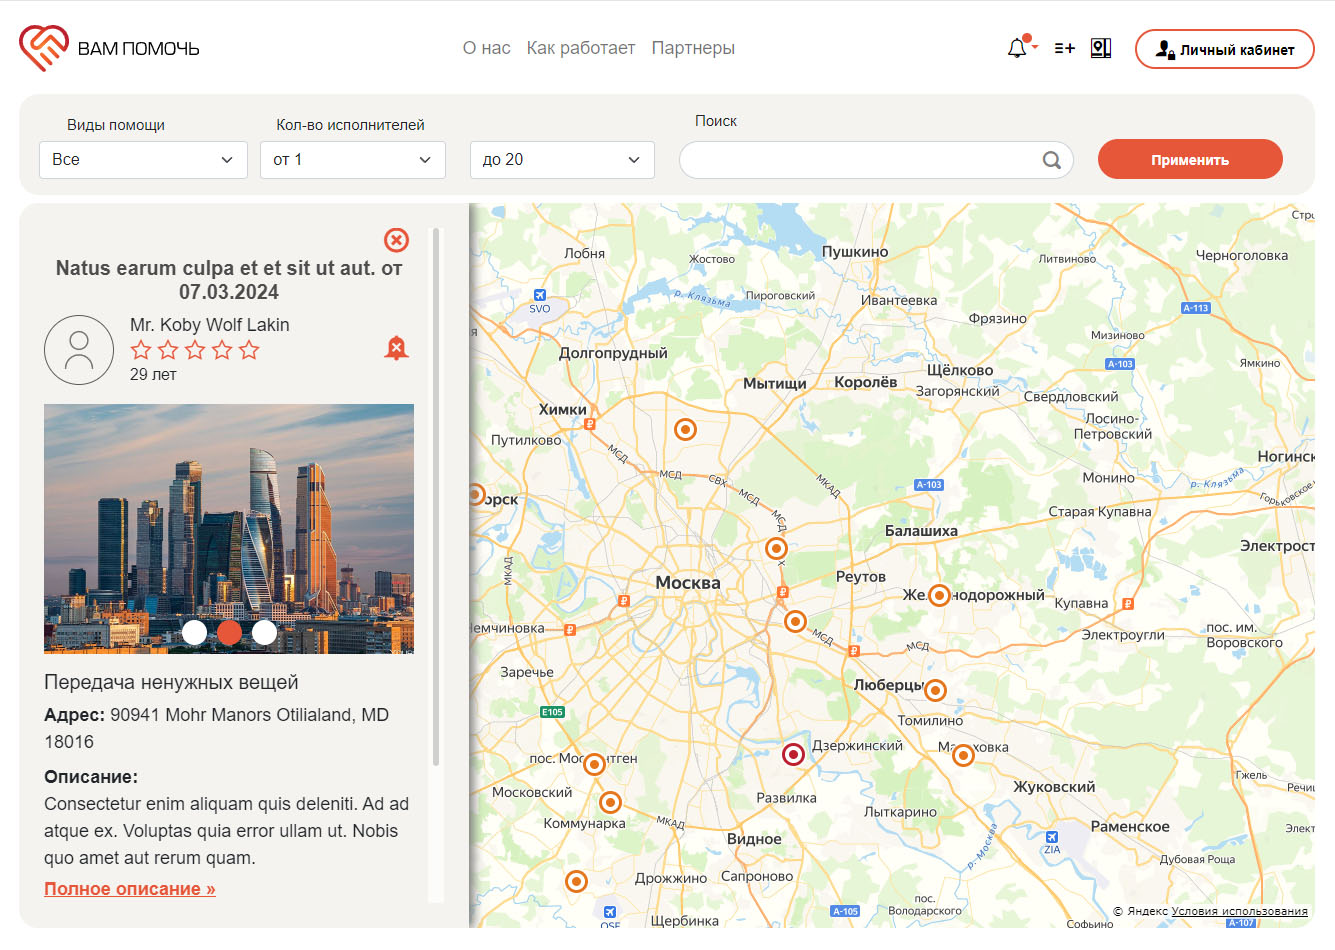
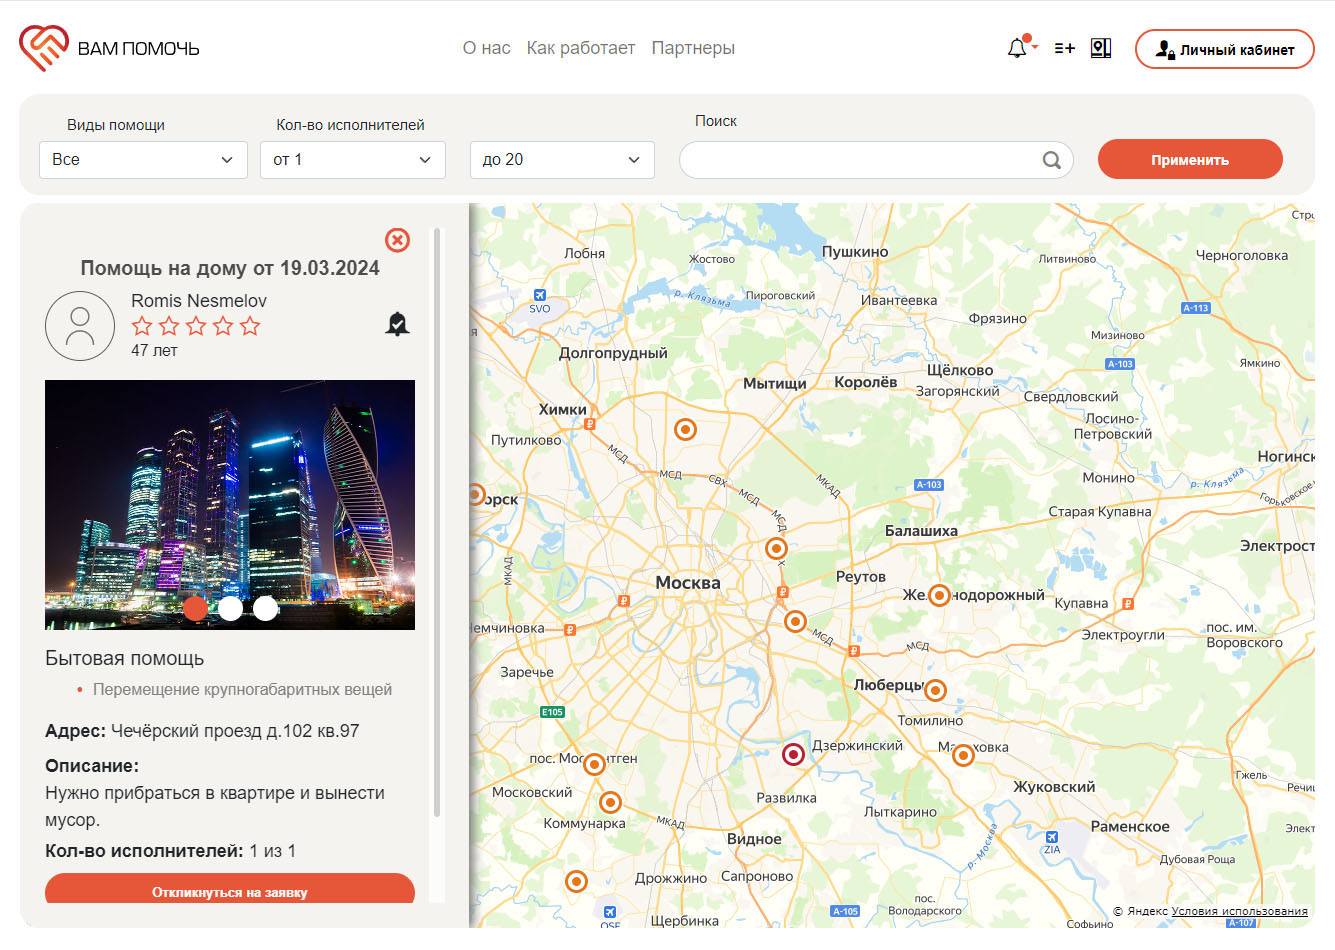
fixes

Changed region(s): [[0.0307, 0.2442, 0.3378, 0.9768]]

diff --git a/resources/js/components/IncentivesComponent.vue b/resources/js/components/IncentivesComponent.vue
@@ -11,13 +11,11 @@
                 <div class="row">
                     <div class="col-lg-6 col-sm-12 mb-2" v-for="incentive in incentives" :key="incentive.id">
                         <div class="item-in-list action text-center p-3">
-                            <div>
-                                <div class="fw-bold fs-6">Акция</div>
-                                <div class="lh-sm fs-5">{{ incentive.action.name }}</div>
-                            </div>
-                            <div class="fs-6 fw-bold">{{ getDate(incentive.action.start) + ' - ' + getDate(incentive.action.end) }}</div>
+                            <div class="lh-sm fs-5">{{ incentive.action_full.name }}</div>
+                            <div class="fs-6">Подарок от компании<br><span class="fw-bold text-uppercase">«{{ incentive.action_full.partner.name }}»</span></div>
+                            <div class="fs-6 fw-bold">Дата: {{ getDate(incentive.action_full.start) + ' - ' + getDate(incentive.action_full.end) }}</div>
                             <div class="w-100 d-flex justify-content-center">
-                                <a class="w-50 me-1" :href="incentive_url + '?id=' + incentive.action.id">
+                                <a class="w-50 me-1" :href="incentive_url + '?id=' + incentive.action_full.id">
                                     <ButtonComponent
                                         class="btn btn-primary w-100 m-auto"
                                         text="Подробнее"
@@ -111,6 +109,8 @@ export default {
             axios.get(url).then(function (response) {
                 self.incentives = response.data.data;
                 self.links = response.data.links;
+
+                console.log(self.incentives);
 
                 if (!self.incentives.length) {
                     window.emitter.emit('incentives', false);

diff --git a/resources/js/components/blocks/AvatarComponent.vue b/resources/js/components/blocks/AvatarComponent.vue
@@ -2,7 +2,7 @@
     <div
         :class="`avatar cir ${this.small ? 'small' : ''} ${this.avatar_error ? 'error' : ''}`"
         :style="`
-            background-image:url(/${this.avatar_image ? this.avatar_image : 'images/def_avatar.svg'});
+            background-image:url(/${this.avatar_image ? (this.avatar_image + '?' + getRandomString()) : 'images/def_avatar.svg'});
             ${this.avatar_props && this.avatar_props['background-position-x'] ? 'background-position-x:'+(this.avatar_props['background-position-x'] * this.avatar_coof)+'px' : ''};
             ${this.avatar_props && this.avatar_props['background-position-y'] ? 'background-position-y:'+(this.avatar_props['background-position-y'] * this.avatar_coof)+'px' : ''};
             ${this.avatar_props && this.avatar_props['background-size'] ? 'background-size:'+(this.avatar_props['background-size']) : ''};
@@ -24,5 +24,18 @@ export default {
         'allow_change_avatar': Number,
         'input_image_hover': String|NaN,
     },
+    methods: {
+        getRandomString() {
+            let result = '';
+            const characters = 'ABCDEFGHIJKLMNOPQRSTUVWXYZabcdefghijklmnopqrstuvwxyz0123456789';
+            const charactersLength = characters.length;
+            let counter = 0;
+            while (counter < 10) {
+                result += characters.charAt(Math.floor(Math.random() * charactersLength));
+                counter += 1;
+            }
+            return result;
+        }
+    }
 }
 </script>

diff --git a/database/seeders/ActionsSeeder.php b/database/seeders/ActionsSeeder.php
@@ -1,0 +1,30 @@
+<?php
+
+namespace Database\Seeders;
+
+use App\Models\Action;
+use App\Models\Partner;
+use Carbon\Carbon;
+use Illuminate\Database\Seeder;
+
+class ActionsSeeder extends Seeder
+{
+    /**
+     * Run the database seeds.
+     */
+    public function run(): void
+    {
+        $html = '<div class="col-md-4 col-sm-12 image float-start me-3"><img src="/images/placeholder.jpg"></div><p>Maiores ea consequatur omnis numquam cum in. Odio dicta expedita blanditiis magni illum ex voluptas. Quia officiis nemo aperiam numquam dolores aspernatur debitis. Quae praesentium illum veritatis totam vel. Reprehenderit atque porro sint. Omnis aut iure cum natus odit non. Aut at suscipit mollitia dolore perspiciatis autem error asperiores. Maxime aperiam sed ex quaerat. Est sed ipsam alias alias dolores. Sunt quam quaerat quaerat et officia facere. Facilis necessitatibus dolores saepe recusandae non repellat eum. Ab enim et sint at rerum rem enim. Fugit ipsum non sunt rem et. Temporibus laboriosam omnis et asperiores atque dolorum. Nesciunt perferendis aperiam fuga. Qui commodi aut odio quis temporibus. Expedita enim et quia eum quia est numquam quidem. Consectetur fugiat rerum odio reiciendis et. Eaque aspernatur voluptatibus omnis ratione deserunt. Ut fuga ut in quod. Nam at reiciendis in laboriosam maxime in. Autem iste esse iusto ut eum nihil consequatur. Ipsum officia sunt quidem non eum. Autem dignissimos et modi labore ut quo repudiandae nulla. Eos perspiciatis qui molestiae quia quasi perferendis inventore. In temporibus harum est. Voluptates sequi est minima sequi excepturi est. Non magni qui tempore facere. Rerum mollitia incidunt tempora qui aut quis. Quia adipisci autem et doloremque et placeat. Eos sed doloribus quo consequatur repellat autem. Rerum dignissimos exercitationem quidem quia saepe dicta ut. Amet qui amet officia consequatur aut. Sit debitis dignissimos laboriosam repellendus veritatis. Itaque at aspernatur aliquam ratione nobis nesciunt facilis. Voluptas officiis similique ducimus. Totam est voluptatum explicabo et. Voluptas sequi neque nihil fugiat consequatur distinctio. Eos et sit libero vel asperiores laboriosam. Adipisci reprehenderit est et et optio. Harum excepturi itaque sit. Ea quas officiis rem exercitationem. Molestiae dolor unde suscipit quas vero ut. Voluptatem iste sit nobis molestiae dignissimos nam. Accusamus quas et veniam. Perspiciatis quae quo quia nostrum. Amet facilis nemo mollitia corporis voluptate. Aut fugiat id asperiores est. Beatae cumque eum debitis id. Voluptatem illum quia error nihil id provident. Repellendus occaecati et quia ut. Enim maiores dolor aut maxime voluptatem. Sit rem sunt hic est nisi tempore provident. Quidem molestiae et a doloribus. Libero esse architecto voluptas voluptates libero. Dignissimos nostrum veniam sunt doloremque. Ut ut et et aperiam voluptatem et aut. Aut magnam doloribus nemo. Beatae nam ea nostrum omnis mollitia non distinctio. Velit vel neque consequatur commodi debitis exercitationem deleniti. Sapiente itaque aut ut aspernatur aut voluptates. Numquam quam deserunt aspernatur amet. Optio occaecati consequatur ipsa ut maxime assumenda est. Vitae voluptas consectetur dolor recusandae quas. Cumque saepe eligendi consectetur beatae nesciunt. Accusamus quo quia possimus dolore voluptatem et.</p><div class="col-md-4 col-sm-12 image float-end ms-3"><img src="/images/placeholder.jpg"></div><p>Id soluta quia voluptatem quos ut rerum est. Quaerat eligendi expedita unde eos ut atque. Dicta aperiam facere totam in qui repellat qui. Aperiam vitae cumque et labore a harum. Veritatis commodi rerum quibusdam ut consequatur. Possimus est doloremque corporis rerum minima corrupti aliquid repellat. Ipsam odio corrupti vitae debitis mollitia quod assumenda. Optio aperiam assumenda et quia nulla. Quod nostrum temporibus qui rem quia. Ad quisquam qui hic et voluptatibus. Facilis consectetur ut quia. Beatae dolores suscipit repellat dignissimos itaque cupiditate. Necessitatibus iusto soluta similique sit tempore. Expedita accusamus non laborum sed cupiditate sint hic. Aut minima quos reprehenderit eveniet consequuntur tempora. Molestiae eum et nulla omnis. Hic accusamus iure porro ullam. Quidem modi tempore nisi debitis et. Labore ea eos voluptate maxime. Provident sint aut consequuntur dolores non. Id doloremque in occaecati. Sit et in occaecati consequuntur. Possimus voluptate perferendis qui quibusdam esse. Aliquid adipisci enim sint architecto. Ut rerum laboriosam rerum et iure. Esse natus facilis voluptatibus. Recusandae veniam corporis omnis est illum. Rerum consequuntur nihil officiis deleniti quod. Sit similique dolores consequatur quis dolor explicabo velit. Et omnis eos pariatur quia iste sed cupiditate.</p>';
+        $ids = Partner::pluck('id')->toArray();
+        foreach ($ids as $id) {
+            Action::create([
+                'name' => 'Акция-кооперация',
+                'html' => $html,
+                'start' => Carbon::now(),
+                'end' => Carbon::now()->addDays(30),
+                'rating' => rand(1,2),
+                'partner_id' => $id
+            ]);
+        }
+    }
+}

diff --git a/resources/views/about_us.blade.php b/resources/views/about_us.blade.php
@@ -22,7 +22,7 @@
         <div class="col-12 col-lg-6">
             <div class="rounded-block tall">
                 <h1 class="mb-3">Обратная связь</h1>
-                <p class="small mb-0">Здесь вы можете задать любые вопросы, выразить свое мнение о проекте, или сделать предложение по его улучшению. Для этого нужно заполнить форму обратной связи и дать согласие на обработку персональных данных. бращаем ваше внимание, что все поля обязательны для заполнения.
+                <p class="small mb-0">Здесь вы можете задать любые вопросы, выразить свое мнение о проекте, или сделать предложение по его улучшению. Для этого нужно заполнить форму обратной связи и дать согласие на обработку персональных данных. Обращаем ваше внимание, что все поля обязательны для заполнения.
                 </p>
                 <feedback-component feedback_url="{{ route('feedback') }}"></feedback-component>
             </div>

diff --git a/database/seeders/PartnersSeeder.php b/database/seeders/PartnersSeeder.php
@@ -1,0 +1,37 @@
+<?php
+
+namespace Database\Seeders;
+use App\Models\Partner;
+use Illuminate\Database\Seeder;
+
+class PartnersSeeder extends Seeder
+{
+    /**
+     * Run the database seeds.
+     */
+    public function run(): void
+    {
+        $data = [
+            'Ali Express',
+            'Авто-ремонтные системы',
+            'Азбука вкуса',
+            'Bauer',
+            'Beer Trade',
+            'Деловые линии',
+            'Еврологистика',
+            'Фирма К и К',
+            'Лидер',
+            'MARR Russia',
+            'Департамент физической культуры и спорта города Москвы',
+            'Очаково. Натуральные напитки',
+            'Rubezh Global'
+        ];
+
+        foreach ($data as $k => $partner) {
+            Partner::create([
+                'logo' => 'images/partners/logo'.($k + 1).'.svg',
+                'name' => $partner
+            ]);
+        }
+    }
+}

diff --git a/database/seeders/OrdersSeeder.php b/database/seeders/OrdersSeeder.php
@@ -24,13 +24,13 @@ class OrdersSeeder extends Seeder
             'order_type_id' => 1,
             'city_id' => 1,
             'subtype_id' => rand(1,4),
-            'name' => 'Тестовая заяка',
-            'need_performers' => 10,
-            'address' => 'Криворожская улица, 17, подъезд 2, этаж 3, кв. 32',
-            'latitude' => 55.667594,
-            'longitude' => 37.612245,
-            'description_short' => 'Чета с кем-то где-то что-то и когда-то надо срочно сделать, а то край!',
-            'status' => 1
+            'name' => 'Помощь на дому',
+            'need_performers' => 1,
+            'address' => 'Чечёрский проезд д.102 кв.97',
+            'latitude' => 55.529496,
+            'longitude' => 37.517940,
+            'description_short' => 'Нужно прибраться в квартире и вынести мусор.',
+            'status' => 2
         ]);
 
         OrderUser::create([

diff --git a/app/Models/Action.php b/app/Models/Action.php
@@ -1,22 +1,19 @@
 <?php
 
 namespace App\Models;
-
-use Illuminate\Database\Eloquent\Factories\HasFactory;
 use Illuminate\Database\Eloquent\Model;
+use Illuminate\Database\Eloquent\Relations\BelongsTo;
 use Illuminate\Database\Eloquent\Relations\BelongsToMany;
-use Illuminate\Database\Eloquent\Relations\HasMany;
 
 class Action extends Model
 {
-    use HasFactory;
-
     protected $fillable = [
         'name',
         'html',
         'start',
         'end',
-        'rating'
+        'rating',
+        'partner_id'
     ];
 
     public function users(): BelongsToMany
@@ -27,5 +24,10 @@ class Action extends Model
     public function usersAwardedActive(): BelongsToMany
     {
         return $this->belongsToMany(User::class)->wherePivot('active',1);
+    }
+
+    public function partner(): BelongsTo
+    {
+        return $this->belongsTo(Partner::class);
     }
 }

diff --git a/database/seeders/DatabaseSeeder.php b/database/seeders/DatabaseSeeder.php
@@ -17,14 +17,14 @@ class DatabaseSeeder extends Seeder
     {
         $this->call(UsersSeeder::class);
         $this->call(CitySeeder::class);
-        Partner::factory(13)->create();
         $this->call(OrderTypesSeeder::class);
 //        Order::factory(50)->create();
         $this->call(OrdersSeeder::class);
         $this->call(OrderImagesSeeder::class);
         $this->call(SubscriptionTypesSeeder::class);
         $this->call(MessageKeywordsSeeder::class);
-        Action::factory(20)->create();
+        $this->call(PartnersSeeder::class);
+        $this->call(ActionsSeeder::class);
         $this->call(ActionsUsersSeeder::class);
     }
 }

diff --git a/database/migrations/2024_03_07_100726_create_actions_table.php b/database/migrations/2024_03_07_100726_create_actions_table.php
@@ -3,6 +3,7 @@
 use Illuminate\Database\Migrations\Migration;
 use Illuminate\Database\Schema\Blueprint;
 use Illuminate\Support\Facades\Schema;
+use App\Models\Partner;
 
 return new class extends Migration
 {
@@ -18,6 +19,7 @@ return new class extends Migration
             $table->dateTime('start');
             $table->dateTime('end');
             $table->tinyInteger('rating');
+            $table->foreignIdFor(Partner::class)->constrained()->cascadeOnUpdate()->cascadeOnDelete();
             $table->timestamps();
         });
     }

diff --git a/app/Models/Partner.php b/app/Models/Partner.php
@@ -4,16 +4,19 @@ namespace App\Models;
 
 use Illuminate\Database\Eloquent\Factories\HasFactory;
 use Illuminate\Database\Eloquent\Model;
+use Illuminate\Database\Eloquent\Relations\HasMany;
 
 class Partner extends Model
 {
-    use HasFactory;
-
     protected $fillable = [
         'logo',
         'name',
         'about',
-        'info',
-        'active'
+        'info'
     ];
+
+    public function actions(): HasMany
+    {
+        return $this->hasMany(Action::class);
+    }
 }

diff --git a/database/migrations/2023_09_21_133205_create_partners_table.php b/database/migrations/2023_09_21_133205_create_partners_table.php
@@ -15,9 +15,8 @@ return new class extends Migration
             $table->id();
             $table->string('logo',50);
             $table->string('name');
-            $table->text('about');
-            $table->longText('info');
-            $table->boolean('active');
+            $table->text('about')->nullable();
+            $table->longText('info')->nullable();
             $table->timestamps();
         });
     }

diff --git a/resources/views/action.blade.php b/resources/views/action.blade.php
@@ -3,6 +3,8 @@
 @section('content')
 <div class="rounded-block p-5 w-100 h-auto">
     <h1 class="text-center mb-4">{{ $action->name }}</h1>
+{{--    <h3 class="text-center mb-2">Подарок от компании <span class="text-uppercase">«{{ $action->partner->name }}»</span></h3>--}}
+    <h3 class="text-center mb-5">Информация о подарке</h3>
     {!! $action->html !!}
 </div>
 @endsection
